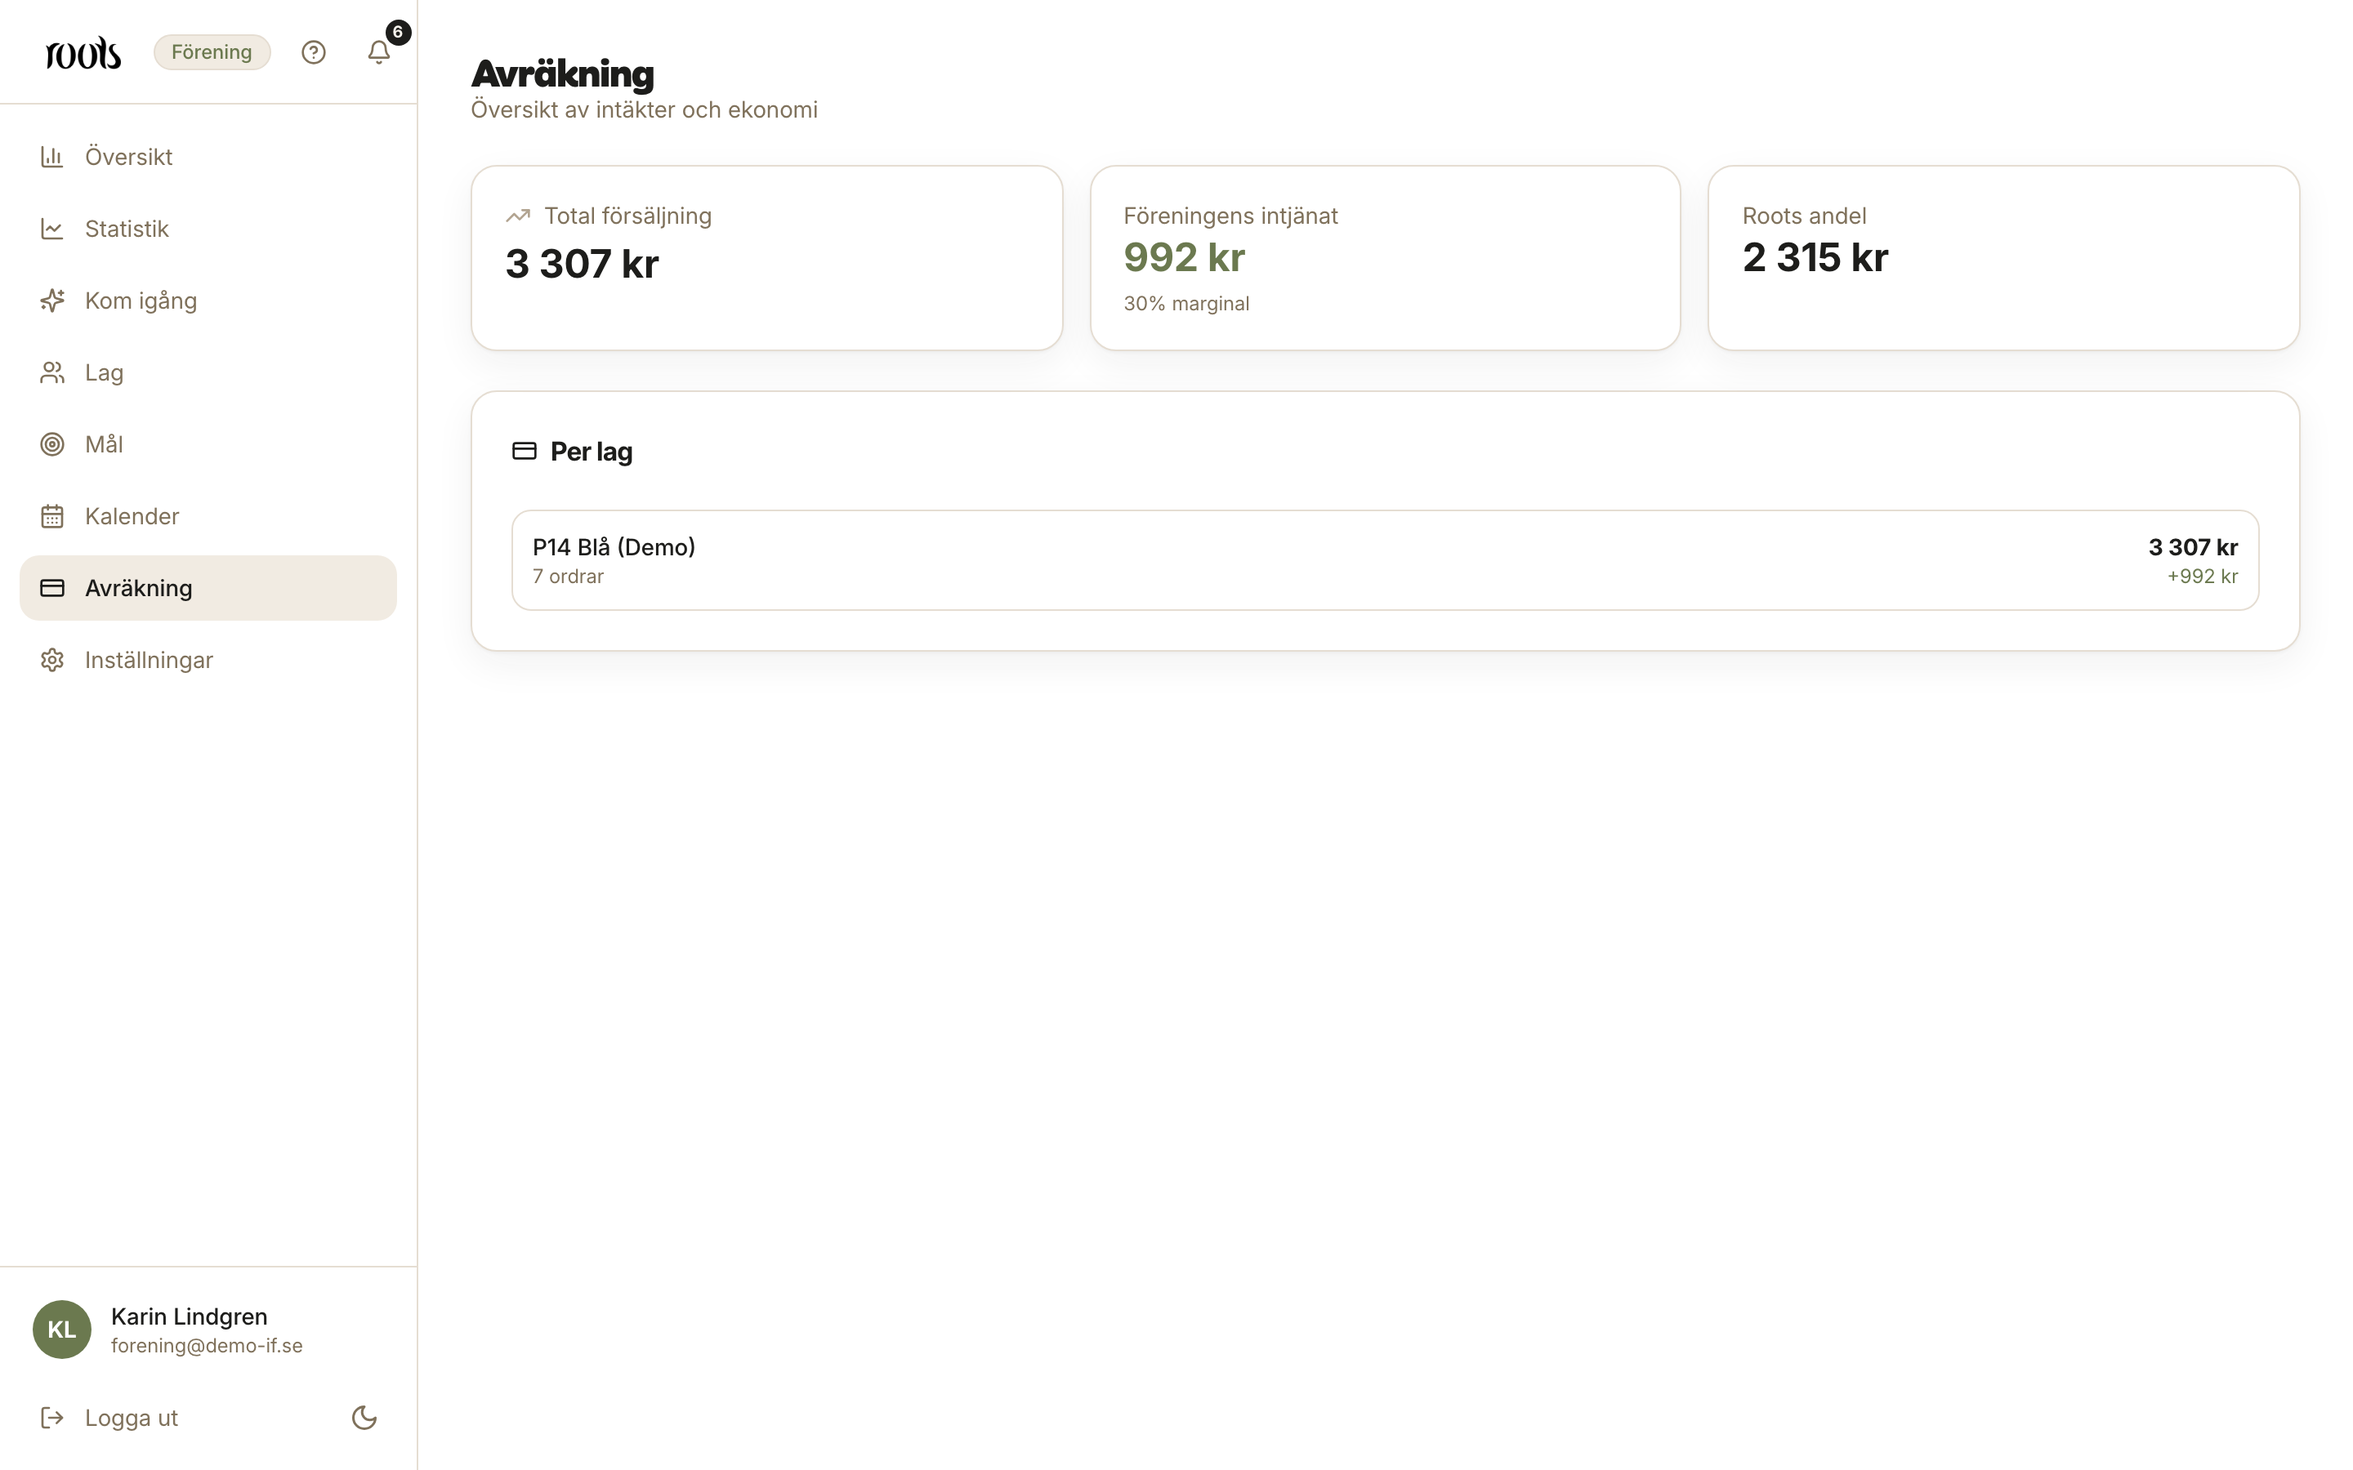
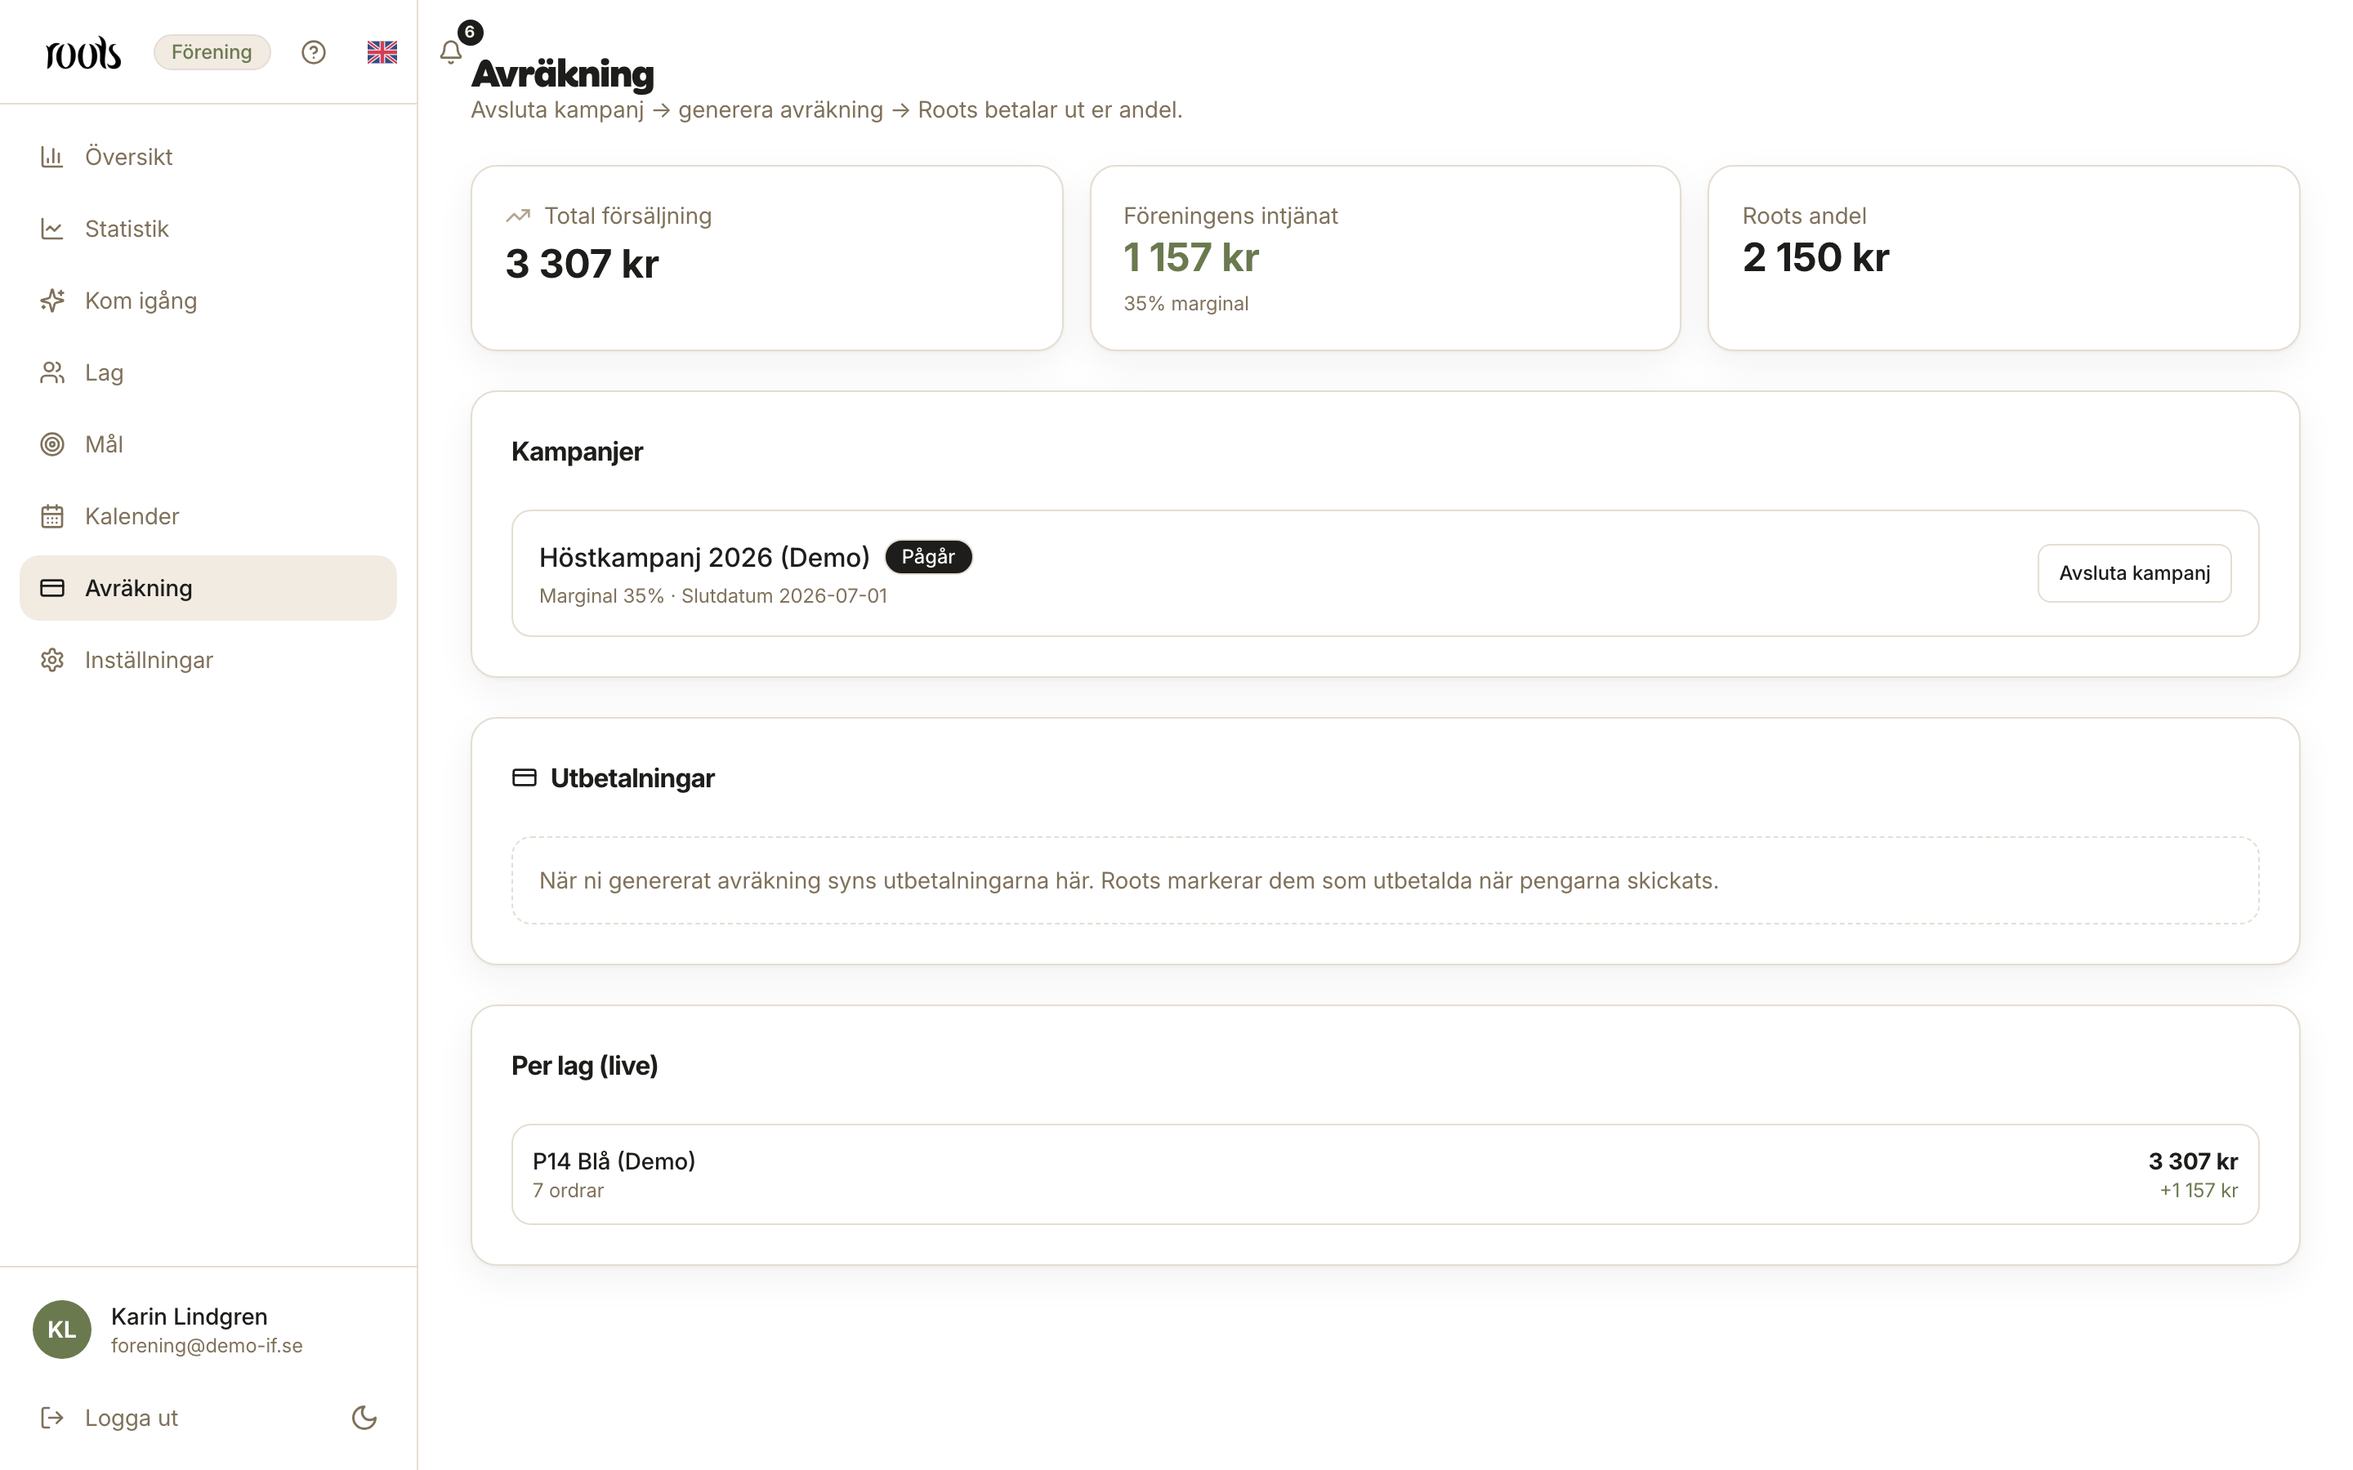
fix: uppdatera säljpresentationens skärmdumpar till 35 % och rätt priser
Demo-seed och screenshots visar nu 35 % marginal och aktuella shoppriser (149/149/129); säljdecken synkas till samma siffror.

diff --git a/packages/db/src/seed-demo.ts b/packages/db/src/seed-demo.ts
@@ -472,8 +472,23 @@ async function seedDemo() {
     .where(eq(campaigns.slug, "demo-varkampanj-2026"))
     .limit(1);
 
+  const clubCampaignStory =
+    "Demo Fotbollsklubb samlar in pengar för att kunna åka på " +
+    "den årliga försäsongsturneringen i Malmö. Varje paket ger " +
+    "föreningen 35 % i bidrag.";
+
   const campaign = existingCampaign
-    ? existingCampaign
+    ? (
+        await db
+          .update(campaigns)
+          .set({
+            marginPercent: 35,
+            story: clubCampaignStory,
+            description: "Insamling till nya tröjor och bortamatcher.",
+          })
+          .where(eq(campaigns.id, existingCampaign.id))
+          .returning()
+      )[0]
     : (
         await db
           .insert(campaigns)
@@ -482,17 +497,14 @@ async function seedDemo() {
             name: "Vårkampanj 2026 (Demo)",
             slug: "demo-varkampanj-2026",
             description: "Insamling till nya tröjor och bortamatcher.",
-            story:
-              "Demo Fotbollsklubb samlar in pengar för att kunna åka på " +
-              "den årliga försäsongsturneringen i Malmö. Varje paket ger " +
-              "föreningen 30 % i bidrag.",
+            story: clubCampaignStory,
             status: "ACTIVE",
             goalType: "AMOUNT",
             goalValue: goalSek,
             startDate: daysAgo(60).toISOString().slice(0, 10),
             endDate: daysAgo(-30).toISOString().slice(0, 10),
             deliveryType: "BULK",
-            marginPercent: 30,
+            marginPercent: 35,
           })
           .returning()
       )[0];
@@ -596,8 +608,24 @@ async function seedDemo() {
     .where(eq(campaigns.slug, "demo-hostkampanj-2026"))
     .limit(1);
 
+  const assocCampaignStory =
+    "Demo IF Sundsvall samlar in pengar till en gemensam ungdoms-" +
+    "cup. Varje paket ger föreningen 35 % i bidrag — pengarna går " +
+    "till resa, boende och matchanmälningar.";
+
   const assocCampaign = existingAssocCampaign
-    ? existingAssocCampaign
+    ? (
+        await db
+          .update(campaigns)
+          .set({
+            marginPercent: 35,
+            story: assocCampaignStory,
+            description:
+              "Föreningen säljer Roots-paket för att finansiera ungdoms-cup i Helsingborg.",
+          })
+          .where(eq(campaigns.id, existingAssocCampaign.id))
+          .returning()
+      )[0]
     : (
         await db
           .insert(campaigns)
@@ -607,17 +635,14 @@ async function seedDemo() {
             slug: "demo-hostkampanj-2026",
             description:
               "Föreningen säljer Roots-paket för att finansiera ungdoms-cup i Helsingborg.",
-            story:
-              "Demo IF Sundsvall samlar in pengar till en gemensam ungdoms-" +
-              "cup. Varje paket ger föreningen 30 % i bidrag — pengarna går " +
-              "till resa, boende och matchanmälningar.",
+            story: assocCampaignStory,
             status: "ACTIVE",
             goalType: "AMOUNT",
             goalValue: associationGoalSek,
             startDate: daysAgo(45).toISOString().slice(0, 10),
             endDate: daysAgo(-45).toISOString().slice(0, 10),
             deliveryType: "BULK",
-            marginPercent: 30,
+            marginPercent: 35,
           })
           .returning()
       )[0];
@@ -876,6 +901,17 @@ async function seedDemo() {
       `Customer orders: ${coCountRow?.count ?? 0} already present for ${ASSOC_TEAM_NAME}, skipping`
     );
   }
+
+  // Keep frozen sale-margin in sync with the locked 35 % offer when
+  // reseeding — otherwise avräkning/statistik can still show 30 %.
+  await db
+    .update(customerOrders)
+    .set({ marginPercentAtSale: 35 })
+    .where(eq(customerOrders.campaignId, assocCampaign.id));
+  await db
+    .update(customerOrders)
+    .set({ marginPercentAtSale: 35 })
+    .where(eq(customerOrders.campaignId, campaign.id));
 
   console.log(
     `Association: forening=${foreningAdmin.id}, leader=${teamLeader.id}, ` +

diff --git a/apps/api/src/lib/demo-i18n.ts b/apps/api/src/lib/demo-i18n.ts
@@ -18,7 +18,7 @@ const CAMPAIGN_BY_SLUG: Record<string, CampaignOverlay> = {
     description: "Fundraising for new jerseys and away matches.",
     story:
       "Demo Football Club is raising money for the annual pre-season " +
-      "tournament in Malmö. Every pack gives the club a 30% contribution.",
+      "tournament in Malmö. Every pack gives the club a 35% contribution.",
   },
   "demo-hostkampanj-2026": {
     name: "Autumn Campaign 2026 (Demo)",
@@ -26,7 +26,7 @@ const CAMPAIGN_BY_SLUG: Record<string, CampaignOverlay> = {
       "The club sells Roots packs to fund a youth cup in Helsingborg.",
     story:
       "Demo IF Sundsvall is raising money for a shared youth cup. " +
-      "Every pack gives the club a 30% contribution — funds go to travel, " +
+      "Every pack gives the club a 35% contribution — funds go to travel, " +
       "accommodation and match fees.",
   },
 };
@@ -44,10 +44,10 @@ const STRING_OVERLAY: Record<string, string> = {
     "Fundraising for new jerseys and away matches.",
   "Föreningen säljer Roots-paket för att finansiera ungdoms-cup i Helsingborg.":
     "The club sells Roots packs to fund a youth cup in Helsingborg.",
-  "Demo Fotbollsklubb samlar in pengar för att kunna åka på den årliga försäsongsturneringen i Malmö. Varje paket ger föreningen 30 % i bidrag.":
-    "Demo Football Club is raising money for the annual pre-season tournament in Malmö. Every pack gives the club a 30% contribution.",
-  "Demo IF Sundsvall samlar in pengar till en gemensam ungdoms-cup. Varje paket ger föreningen 30 % i bidrag — pengarna går till resa, boende och matchanmälningar.":
-    "Demo IF Sundsvall is raising money for a shared youth cup. Every pack gives the club a 30% contribution — funds go to travel, accommodation and match fees.",
+  "Demo Fotbollsklubb samlar in pengar för att kunna åka på den årliga försäsongsturneringen i Malmö. Varje paket ger föreningen 35 % i bidrag.":
+    "Demo Football Club is raising money for the annual pre-season tournament in Malmö. Every pack gives the club a 35% contribution.",
+  "Demo IF Sundsvall samlar in pengar till en gemensam ungdoms-cup. Varje paket ger föreningen 35 % i bidrag — pengarna går till resa, boende och matchanmälningar.":
+    "Demo IF Sundsvall is raising money for a shared youth cup. Every pack gives the club a 35% contribution — funds go to travel, accommodation and match fees.",
 };
 
 function overlayString(locale: UiLocale, value: string | null | undefined): string {

diff --git a/docs/presentations/deck_salj.py b/docs/presentations/deck_salj.py
@@ -172,7 +172,7 @@ def build() -> Deck:
 
     # ── 10–12 · Produktpitchar ─────────────────────────────────────────
     slides.append(Slide(
-        number=next(n), layout="pitch", kicker="PRODUKT 01 · 199 KR · 250 ML",
+        number=next(n), layout="pitch", kicker="PRODUKT 01 · 149 KR · 250 ML",
         title="Roots Schampoo",
         left=Column(heading="Fakta", items=[
             "SyriCalm® lugnar hårbotten",
@@ -193,7 +193,7 @@ def build() -> Deck:
     ))
 
     slides.append(Slide(
-        number=next(n), layout="pitch", kicker="PRODUKT 02 · 199 KR · 250 ML",
+        number=next(n), layout="pitch", kicker="PRODUKT 02 · 149 KR · 250 ML",
         title="Roots Conditioner",
         left=Column(heading="Fakta", items=[
             "Pro-Vitamin B5 — närande utan att tynga",
@@ -212,7 +212,7 @@ def build() -> Deck:
     ))
 
     slides.append(Slide(
-        number=next(n), layout="pitch", kicker="PRODUKT 03 · 179 KR · 250 ML",
+        number=next(n), layout="pitch", kicker="PRODUKT 03 · 129 KR · 250 ML",
         title="Roots Body Wash",
         left=Column(heading="Fakta", items=[
             "Mild tvättduo, sulfatsnål",
@@ -227,7 +227,7 @@ def build() -> Deck:
         ]),
         images=["images/sport-pres-body-wash.jpg"],
         caption="Lägst tröskel av de tre — perfekt sista knuff.",
-        notes="Enklaste merförsäljningen. 179 kr — 20 kr under de andra två.",
+        notes="Enklaste merförsäljningen. 129 kr — 20 kr under de andra två.",
     ))
 
     # ── 13 · Premium – inte premiumpris (MS-009) ───────────────────────
@@ -242,16 +242,16 @@ def build() -> Deck:
         title="Pris som fungerar i föreningen",
         subtitle="Styckpriser mot Premiumpaketet — och marknadens nivå.",
         items=[
-            "Schampoo · 199 kr | 250 ml · 80 kr/100 ml",
-            "Conditioner · 199 kr | 250 ml · 80 kr/100 ml",
-            "Body Wash · 179 kr | 250 ml · 72 kr/100 ml",
-            "Premiumpaket* · 399 kr | 3 × 250 ml · spara 178 kr mot 577 kr",
+            "Schampoo · 149 kr | 250 ml · 60 kr/100 ml",
+            "Conditioner · 149 kr | 250 ml · 60 kr/100 ml",
+            "Body Wash · 129 kr | 250 ml · 52 kr/100 ml",
+            "Premiumpaket* · 399 kr | 3 × 250 ml · spara 28 kr mot 427 kr",
         ],
         caption="Premiumkvalitet – cirka 40 % lägre än ledande premiumvarumärken "
                 "(typiskt 90–140 kr/100 ml). *Premiumpaketet = hela rutinen.",
         notes="Visa Premiumpaketet först. Styckpriserna finns för den som frågar.\n\n"
-              "Samma siffror som i Roots_Prisjamforelse_Marknaden.pdf "
-              "(199 / 199 / 179 → 577; Premium 399 sparar 178).",
+              "Samma priser som i shoppen och Roots_Produkter "
+              "(149 / 149 / 129 → 427; Premium 399 sparar 28).",
     ))
 
     # ── 15 · 35 % tillbaka (säljpunch) ─────────────────────────────────
@@ -268,7 +268,7 @@ def build() -> Deck:
         notes="Stanna på den här sliden. Låt siffran landa innan du går vidare.\n\n"
               "Marginalen är LOCKED_MARGIN_PERCENT = 35 % — säg det som ett "
               "löfte, inte som ett erbjudande man kan pruta på.\n\n"
-              "Peka inte på demoskärmar som fortfarande visar 30 %.",
+              "Demoskärmarna ska visa 35 % — samma siffra som här.",
     ))
 
     # ── 16 · Varför priset håller ──────────────────────────────────────
@@ -349,7 +349,7 @@ def build() -> Deck:
         images=["shop-start.png", "shop-kassa.png"],
         caption="Man köper inte schampo — man köper lagets cup.",
         notes="Ingen inloggning, inget konto. Länken i ett sms räcker.\n\n"
-              "Demoskärmar kan visa äldre pris/marginal — peka på flödet.",
+              "Skärmarna visar aktuella priser (149 / 149 / 129) och 35 % bidrag.",
     ))
     slides.append(Slide(
         number=next(n), layout="phones", kicker="SÄLJAREN",

diff --git a/docs/presentations/deck_plattform.py b/docs/presentations/deck_plattform.py
@@ -19,7 +19,7 @@ Tre regler styr innehållet:
     påståenden      35 % är LOCKED_MARGIN_PERCENT i packages/contracts, priserna
                     står i produktkatalogen, och löftesbandet högst upp på sajten
                     kommer ur announcement-bar.tsx. Demokampanjerna i bilderna är
-                    seedade med 30 % marginal — säg 35 %, som är det vi erbjuder,
+                    seedade med 35 % marginal — samma siffra som i erbjudandet,
                     och peka inte på procenttalet i demobilderna.
 
 Bygg med:
@@ -190,9 +190,7 @@ def build() -> Deck:
               "de fyller i sina uppgifter blir det ett lead hos dig. Det är "
               "din bästa uppföljningsanledning: »jag såg att ni räknade på "
               "trettio säljare«.\n\n"
-              "MARGINALEN är låst till 35 %. Demobilden visar 35 %, men "
-              "kampanjerna i demodatan ligger på 30 % — peka inte på "
-              "procenttalet i de senare bilderna.",
+              "MARGINALEN är låst till 35 %. Demobilderna visar samma siffra.",
     ))
 
     # ── 08 · Pipeline ─────────────────────────────────────────────────
@@ -310,10 +308,7 @@ def build() -> Deck:
               "Poängen är inte procentsatsen utan att de ser båda sidor av "
               "delningen, hela tiden, utan att be om det. Det är ovanligt i "
               "branschen och det är värt att säga högt.\n\n"
-              "Se upp: demokampanjen i bilden är seedad med 30 %. Vårt "
-              "erbjudande är 35 %. Prata om principen, inte om talet i "
-              "bilden — eller nämn att det är demodata om någon läser "
-              "noga.",
+              "Demokampanjen visar 35 % — samma siffra som i erbjudandet.",
     ))
 
     # ── 14 · Lagledaren ───────────────────────────────────────────────
